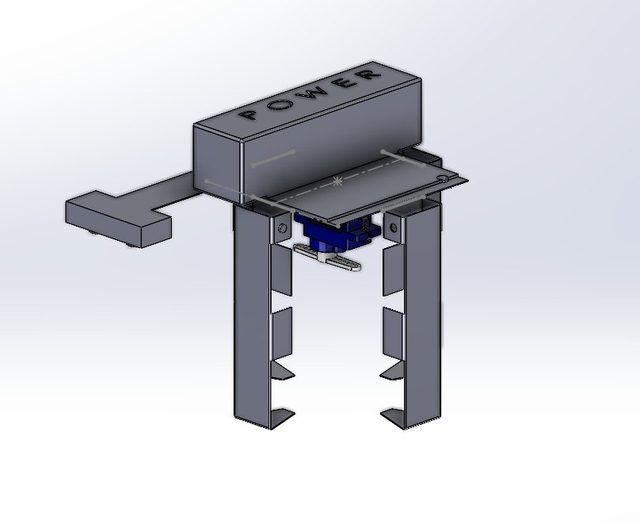
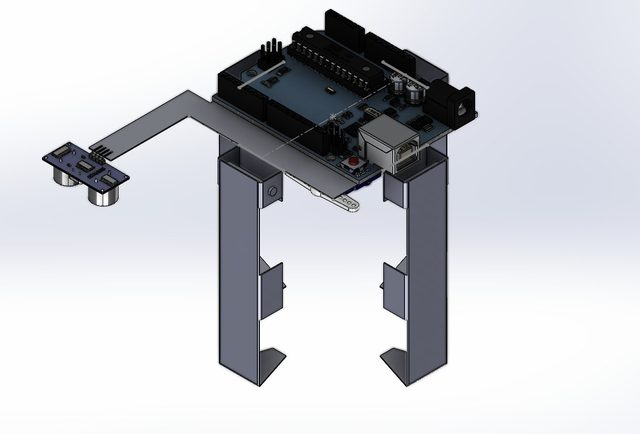
Replace claw CAD render with two higher-detail screenshots
Swaps the single assembly render for two more detailed SolidWorks
screenshots (with Arduino Uno and servo clearly visible), shown as
an image pair, with the assembly drawing moved to its own block
below. Regenerated the project card thumbnail from the new render.

Changed region(s): [[0.0625, 0.0, 0.75, 0.8986]]

diff --git a/projects/autonomous-claw/index.html b/projects/autonomous-claw/index.html
@@ -85,9 +85,16 @@
 
       <div class="image-pair">
         <figure>
-          <img src="/assets/img/autonomous-claw-cad.jpg" alt="SolidWorks assembly render of the claw mechanism, showing the sonar and power supply housing, servo motor, and sheet metal frame legs." loading="lazy" width="808" height="660" />
+          <img src="/assets/img/autonomous-claw-cad-1.jpg" alt="SolidWorks assembly render of the claw mechanism, showing the Arduino Uno, ultrasonic sensor, and sheet metal frame legs." loading="lazy" width="1219" height="826" />
           <figcaption>SolidWorks assembly render.</figcaption>
         </figure>
+        <figure>
+          <img src="/assets/img/autonomous-claw-cad-2.jpg" alt="SolidWorks assembly render of the claw mechanism from the front, showing the servo motor, ultrasonic sensor, and sheet metal frame legs." loading="lazy" width="916" height="754" />
+          <figcaption>SolidWorks assembly render, front view.</figcaption>
+        </figure>
+      </div>
+
+      <div class="image-block">
         <figure>
           <img src="/assets/img/autonomous-claw-drawing.jpg" alt="Engineering drawing of the QuadGrip assembly, dimensioned in millimeters, showing sonar, power supply, servo motor, and Arduino Uno placement." loading="lazy" width="1400" height="2050" />
           <figcaption>QuadGrip assembly drawing.</figcaption>
